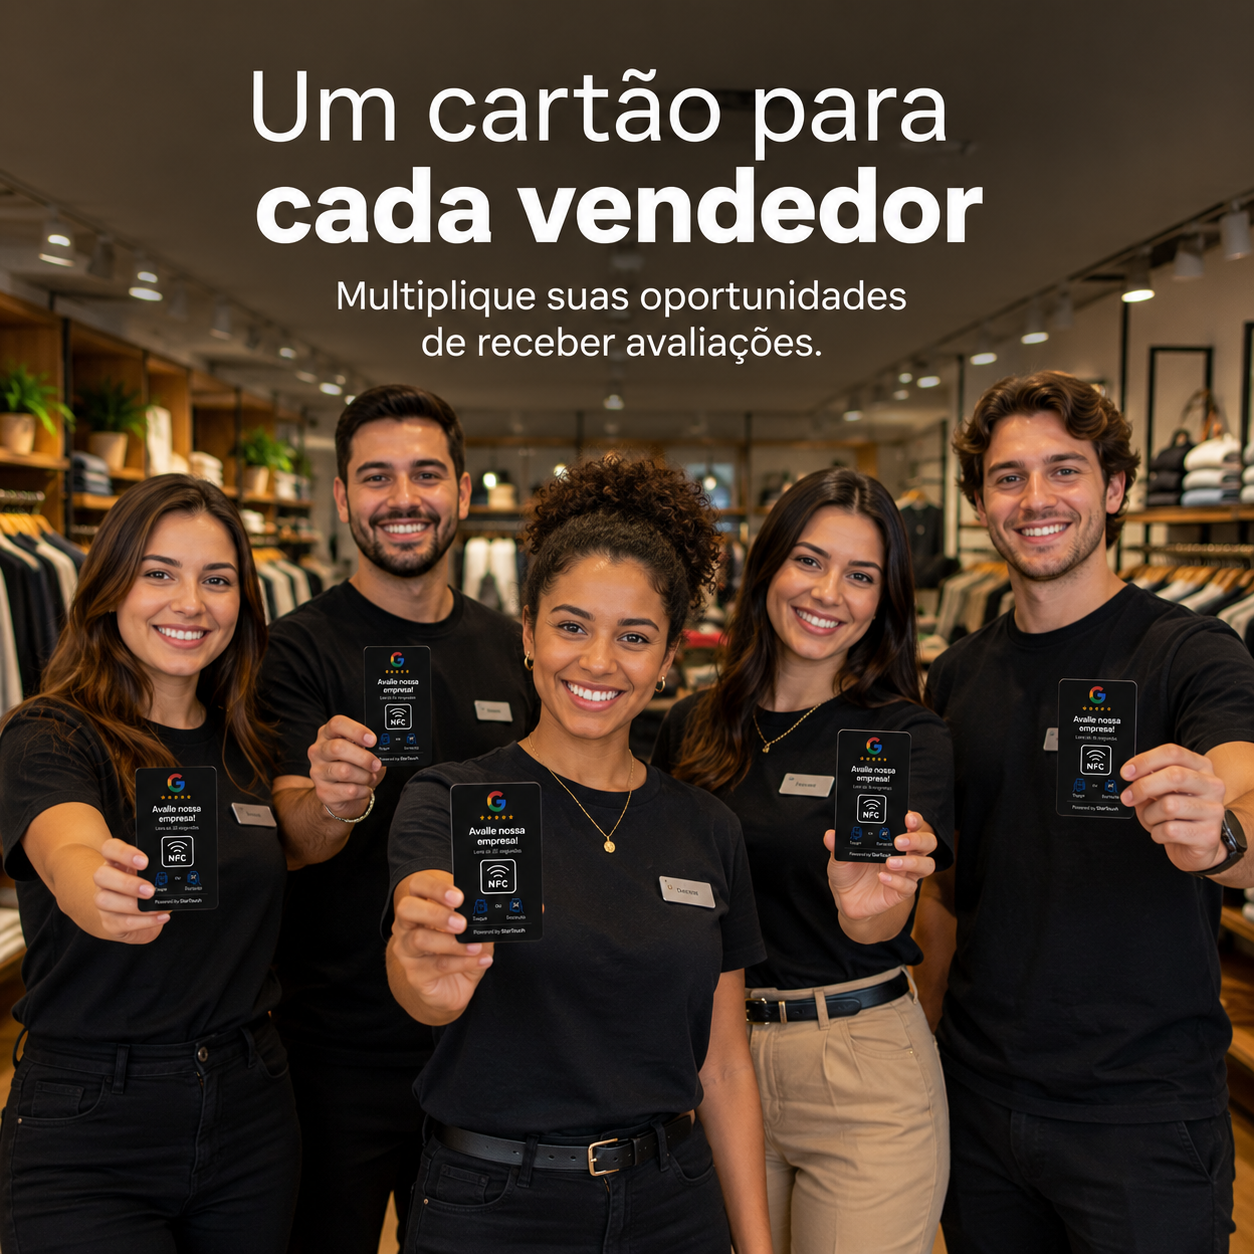
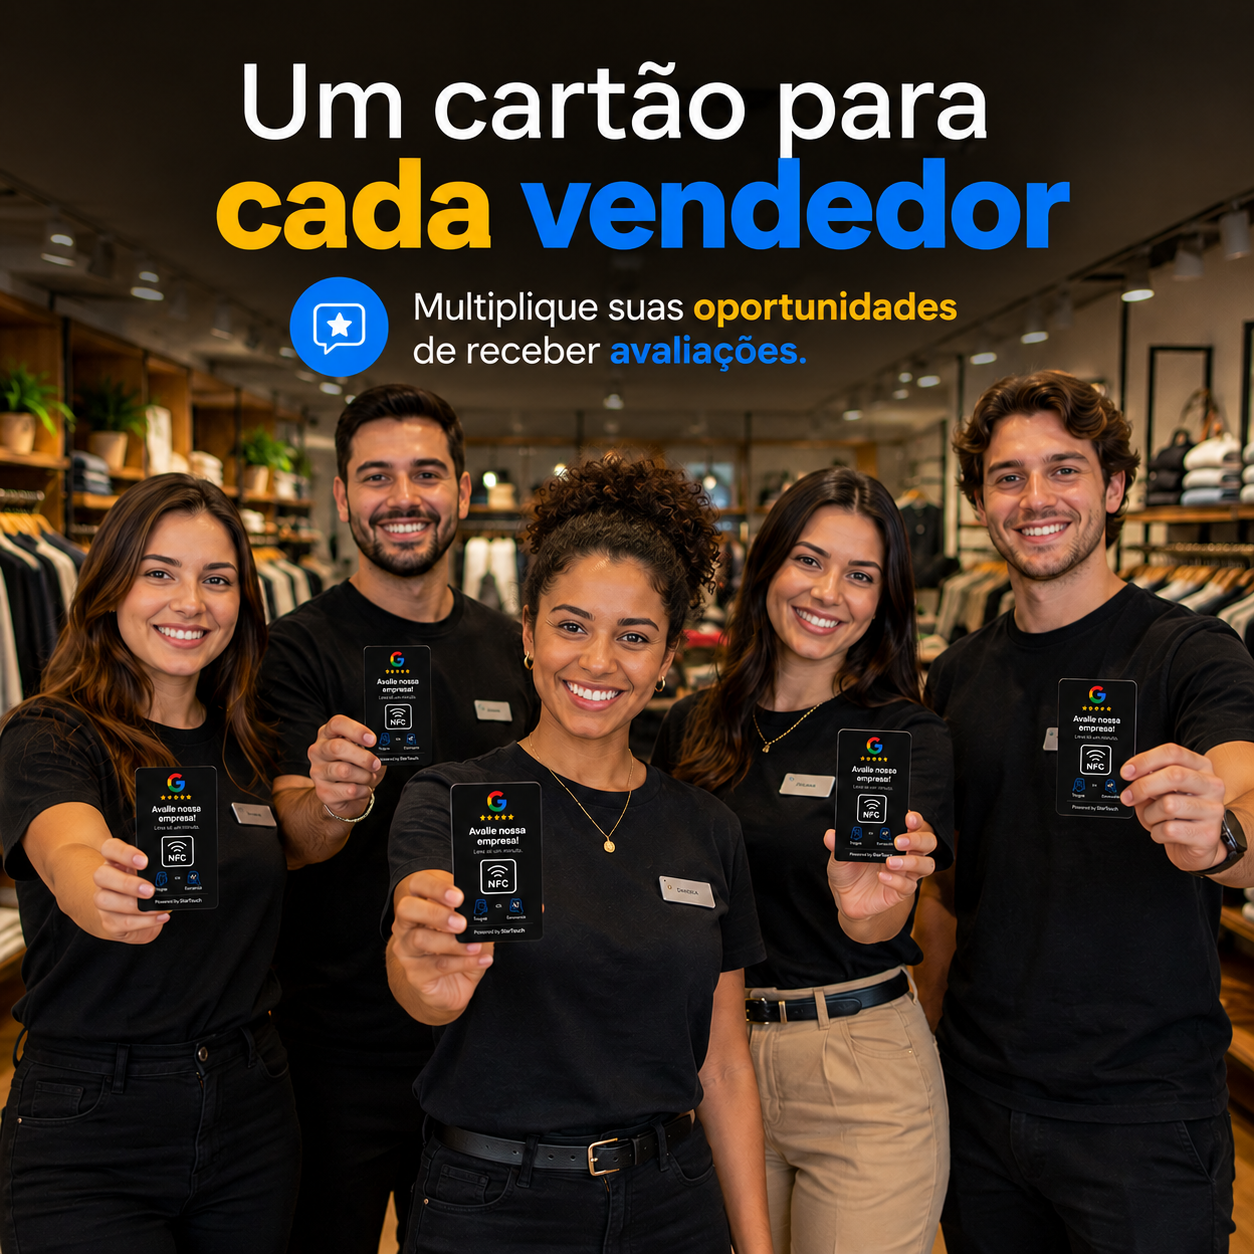
content(landing): galeria do Cartao com 4 segmentos (loja/academia/farmacia/restaurante)
Substitui as imagens lifestyle do Cartao pelas novas versoes por segmento:
cartao-3 loja, cartao-4 academia, cartao-5 farmacia, cartao-6 restaurante.
Galeria passa a ter 6 miniaturas (produto + specs + 4 segmentos).

diff --git a/public/landing.html b/public/landing.html
@@ -4266,8 +4266,10 @@ fbq('track', 'PageView');
           <div class="eco-gallery-thumbs">
             <button class="eco-gallery-thumb is-active" type="button" data-full="/cartao-1.png" aria-label="Ver foto — produto"><img src="/cartao-1.png" alt="Cartão de Avaliação NFC — produto" loading="lazy"/></button>
             <button class="eco-gallery-thumb" type="button" data-full="/cartao-2.png" aria-label="Ver foto — tamanho e specs"><img src="/cartao-2.png" alt="Cartão NFC — tamanho 8,5 x 5,4 cm e especificações" loading="lazy"/></button>
-            <button class="eco-gallery-thumb" type="button" data-full="/cartao-3.png" aria-label="Ver foto — um cartão por vendedor"><img src="/cartao-3.png" alt="Equipe de vendas com um cartão NFC cada" loading="lazy"/></button>
-            <button class="eco-gallery-thumb" type="button" data-full="/cartao-5.png" aria-label="Ver foto — avaliações em todas as mesas"><img src="/cartao-5.png" alt="Equipe de restaurante distribuindo cartões NFC nas mesas" loading="lazy"/></button>
+            <button class="eco-gallery-thumb" type="button" data-full="/cartao-3.png" aria-label="Ver foto — equipe de loja"><img src="/cartao-3.png" alt="Equipe de loja com um cartão NFC cada" loading="lazy"/></button>
+            <button class="eco-gallery-thumb" type="button" data-full="/cartao-4.png" aria-label="Ver foto — equipe de academia"><img src="/cartao-4.png" alt="Equipe de academia com cartão NFC" loading="lazy"/></button>
+            <button class="eco-gallery-thumb" type="button" data-full="/cartao-5.png" aria-label="Ver foto — equipe de farmácia"><img src="/cartao-5.png" alt="Equipe de farmácia com cartão NFC" loading="lazy"/></button>
+            <button class="eco-gallery-thumb" type="button" data-full="/cartao-6.png" aria-label="Ver foto — equipe de restaurante"><img src="/cartao-6.png" alt="Equipe de restaurante com cartão NFC nas mesas" loading="lazy"/></button>
           </div>
         </div>
         <div class="eco-gallery-body">